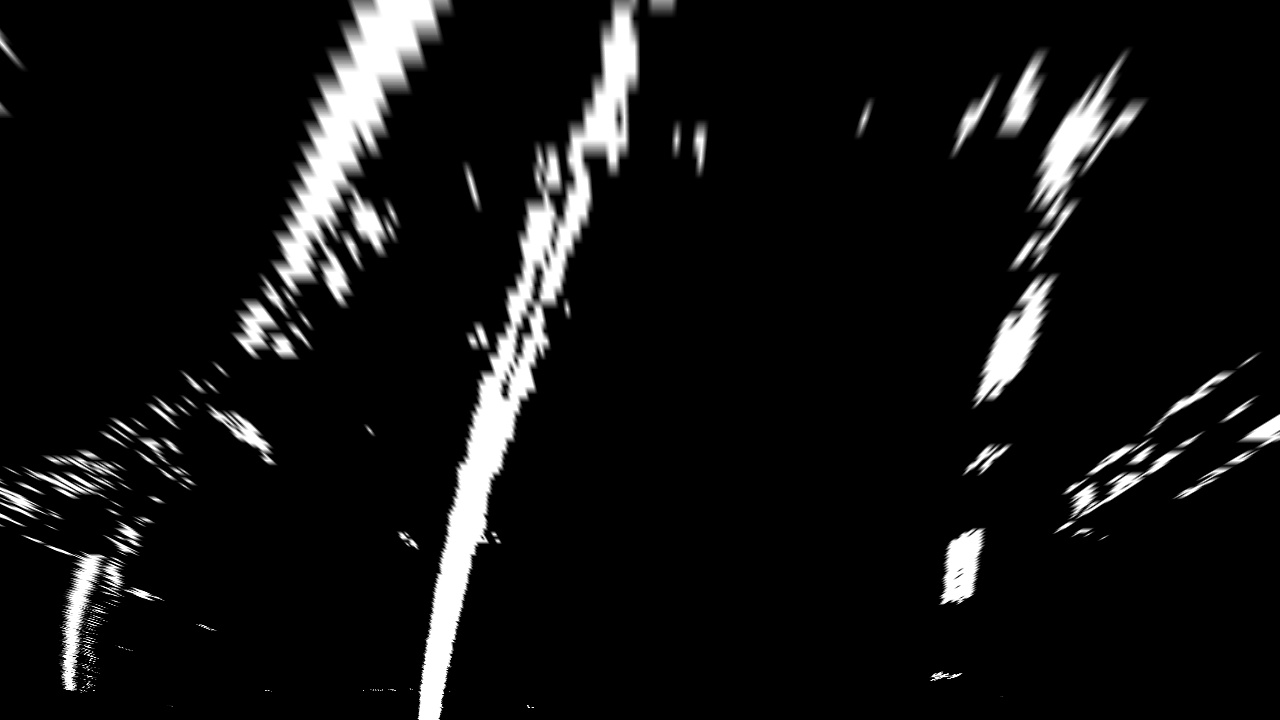
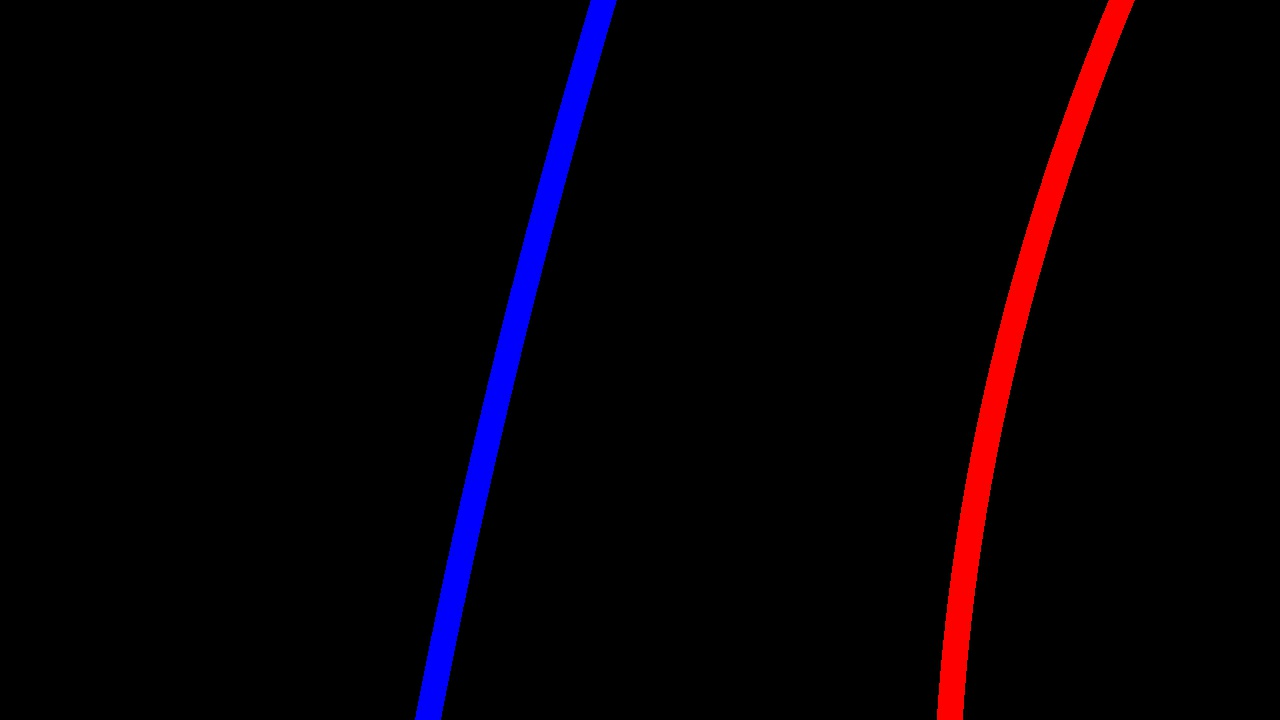
draw curved lines

diff --git a/image_gen.py b/image_gen.py
@@ -125,8 +125,17 @@ for idx, fname in enumerate(images):
     l_points = np.zeros_like(warped)
     r_points = np.zeros_like(warped)
 
+    #points use the find the left and right lanes
+    leftx = []
+    rightx = []
+    
+
     #Go through each level and draw the windows
     for level in range(0, len(window_centroids)):
+        #add center value found in frame to the list of lane points per left, right
+        leftx.append(window_centroids[level][0])
+        rightx.append(window_centroids[level][1])
+
         #window_mask is a function to draw window areas 
         l_mask = window_mask(window_width, window_height, warped, window_centroids[level][0], level)
         r_mask = window_mask(window_width, window_height, warped, window_centroids[level][1], level)
@@ -141,7 +150,36 @@ for idx, fname in enumerate(images):
     warpage = np.array(cv2.merge((warped, warped, warped)), np.uint8) # making the original road pixels 3 color channels 
     result = cv2.addWeighted(warpage, 1, template, 0.5, 0.0) # overlay the original road image with window results
 
-    result = warped
+    # fit the lane boundries to the left, right center positions found 
+    yvals = range(0, warped.shape[0])
+
+    res_yvals = np.arange(warped.shape[0] - (window_height/2), 0, -window_height)
+
+    left_fit = np.polyfit(res_yvals, leftx, 2)
+    left_fitx = left_fit[0] * yvals * yvals + left_fit[1] * yvals + left_fit[2]
+    left_fitx = np.array(left_fitx, np.int32)
+
+    right_fit = np.polyfit(res_yvals, rightx, 2)
+    right_fitx = right_fit[0] * yvals * yvals + right_fit[1] * yvals + right_fit[2]
+    right_fitx = np.array(right_fitx, np.int32)
+
+    left_lane = np.array(list(zip(np.concatenate((left_fitx-window_width/2, left_fitx[::-1]+window_width/2), axis=0), np.concatenate((yvals, yvals[::-1]), axis=0))), np.int32)
+    right_lane = np.array(list(zip(np.concatenate((right_fitx-window_width/2, right_fitx[::-1]+window_width/2), axis=0), np.concatenate((yvals, yvals[::-1]), axis=0))), np.int32)
+    middle_marker = np.array(list(zip(np.concatenate((right_fitx-window_width/2, right_fitx[::-1]+window_width/2), axis=0), np.concatenate((yvals, yvals[::-1]), axis=0))), np.int32)
+
+    road = np.zeros_like(img)
+    cv2.fillPoly(road, [left_lane], color=[255, 0, 0])
+    cv2.fillPoly(road, [right_lane], color=[0, 0, 255])
+    
+    #road_bkg = np.zeros_like(img)
+    #cv2.fillPoly(road_bkg, [left_lane], color=[255, 255, 255])
+    #cv2.fillPoly(road_bkg, [right_lane], color=[255, 255, 255])
+
+    #road_warped = cv2.warpPerspective(road, Minv, img_size, flags=cv2.INTER_LINEAR)
+    #road_warped_bkg = cv2.warpPerspective(road_bkg, Minv, img_size, flags=cv2.INTER_LINEAR)
+
+    #result = warped
+    result = road
 
     write_name = './test_images/trackled'+str(idx)+'.jpg'
     cv2.imwrite(write_name, result)
